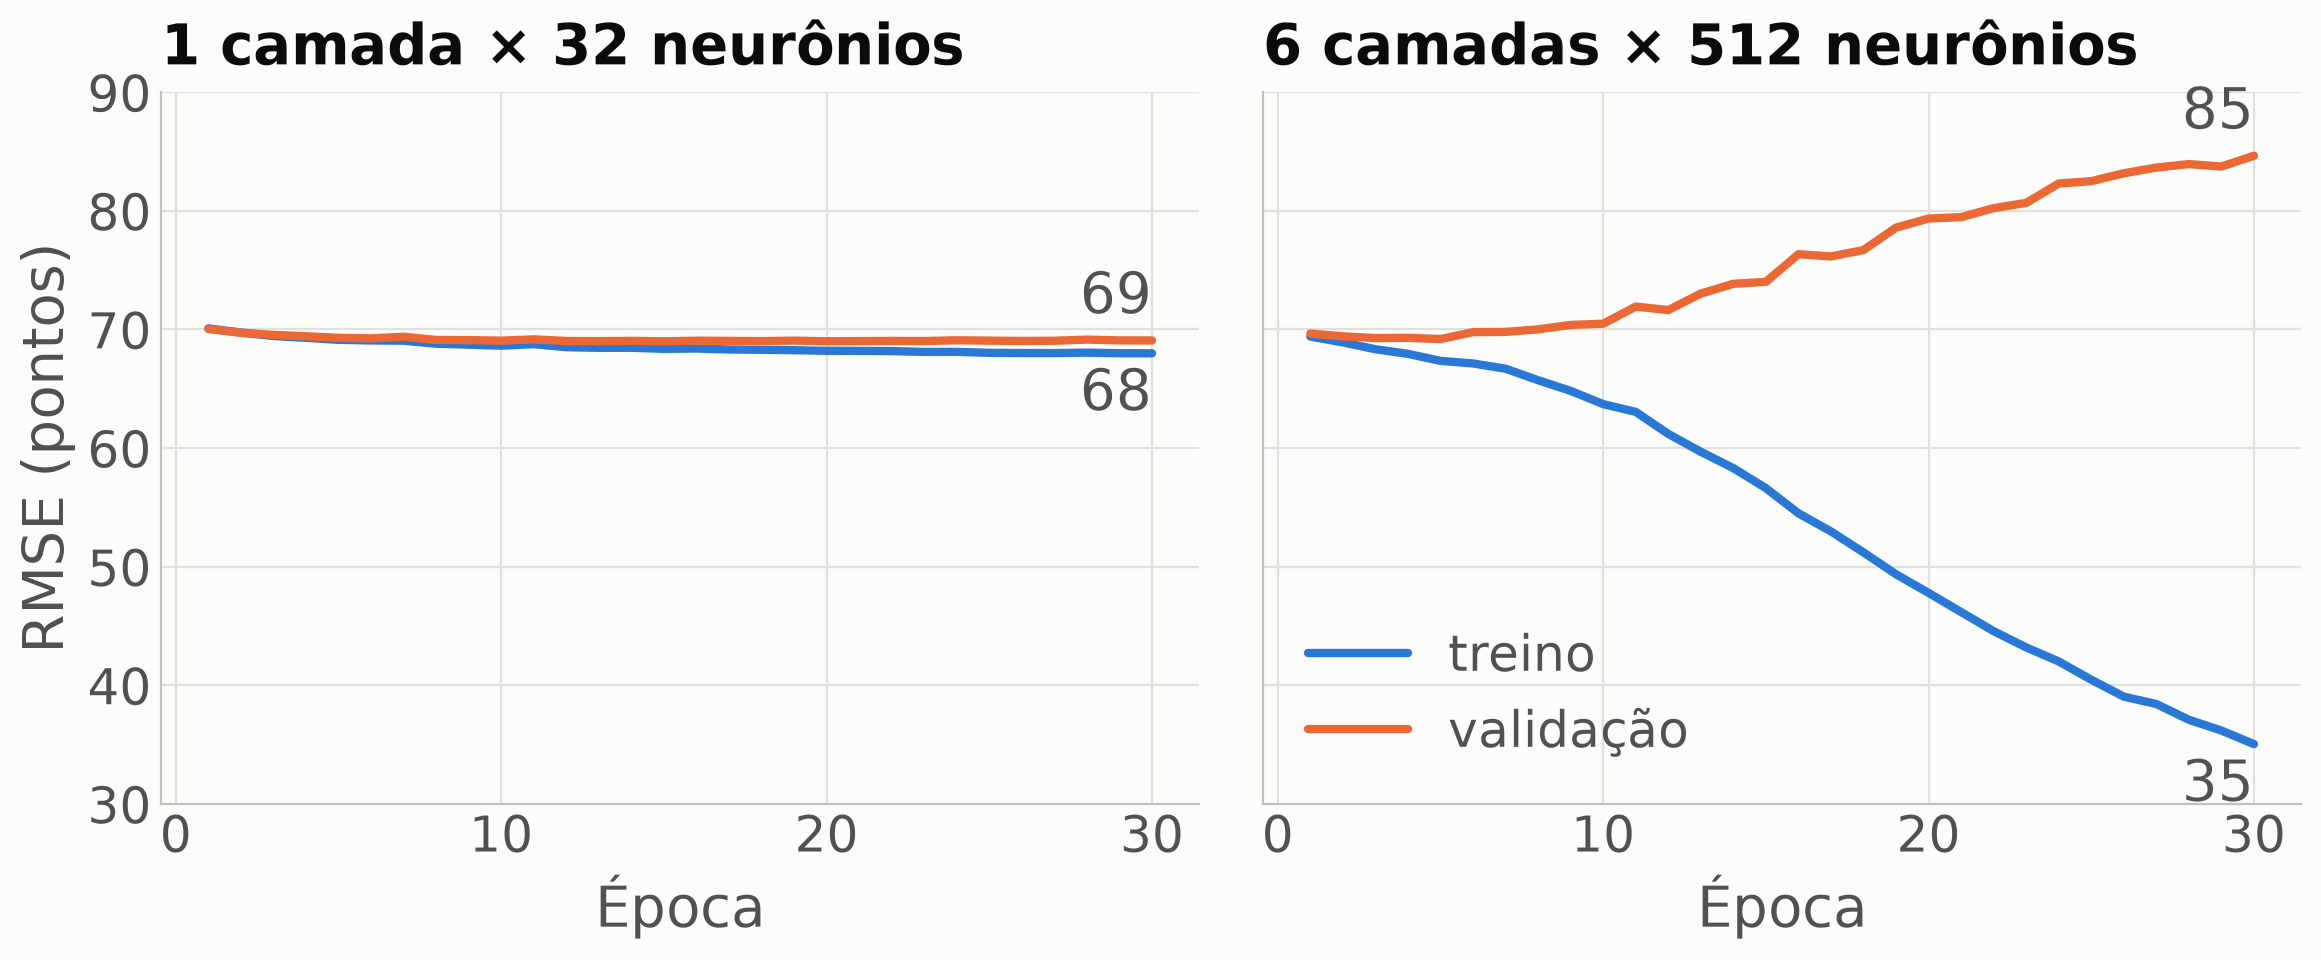
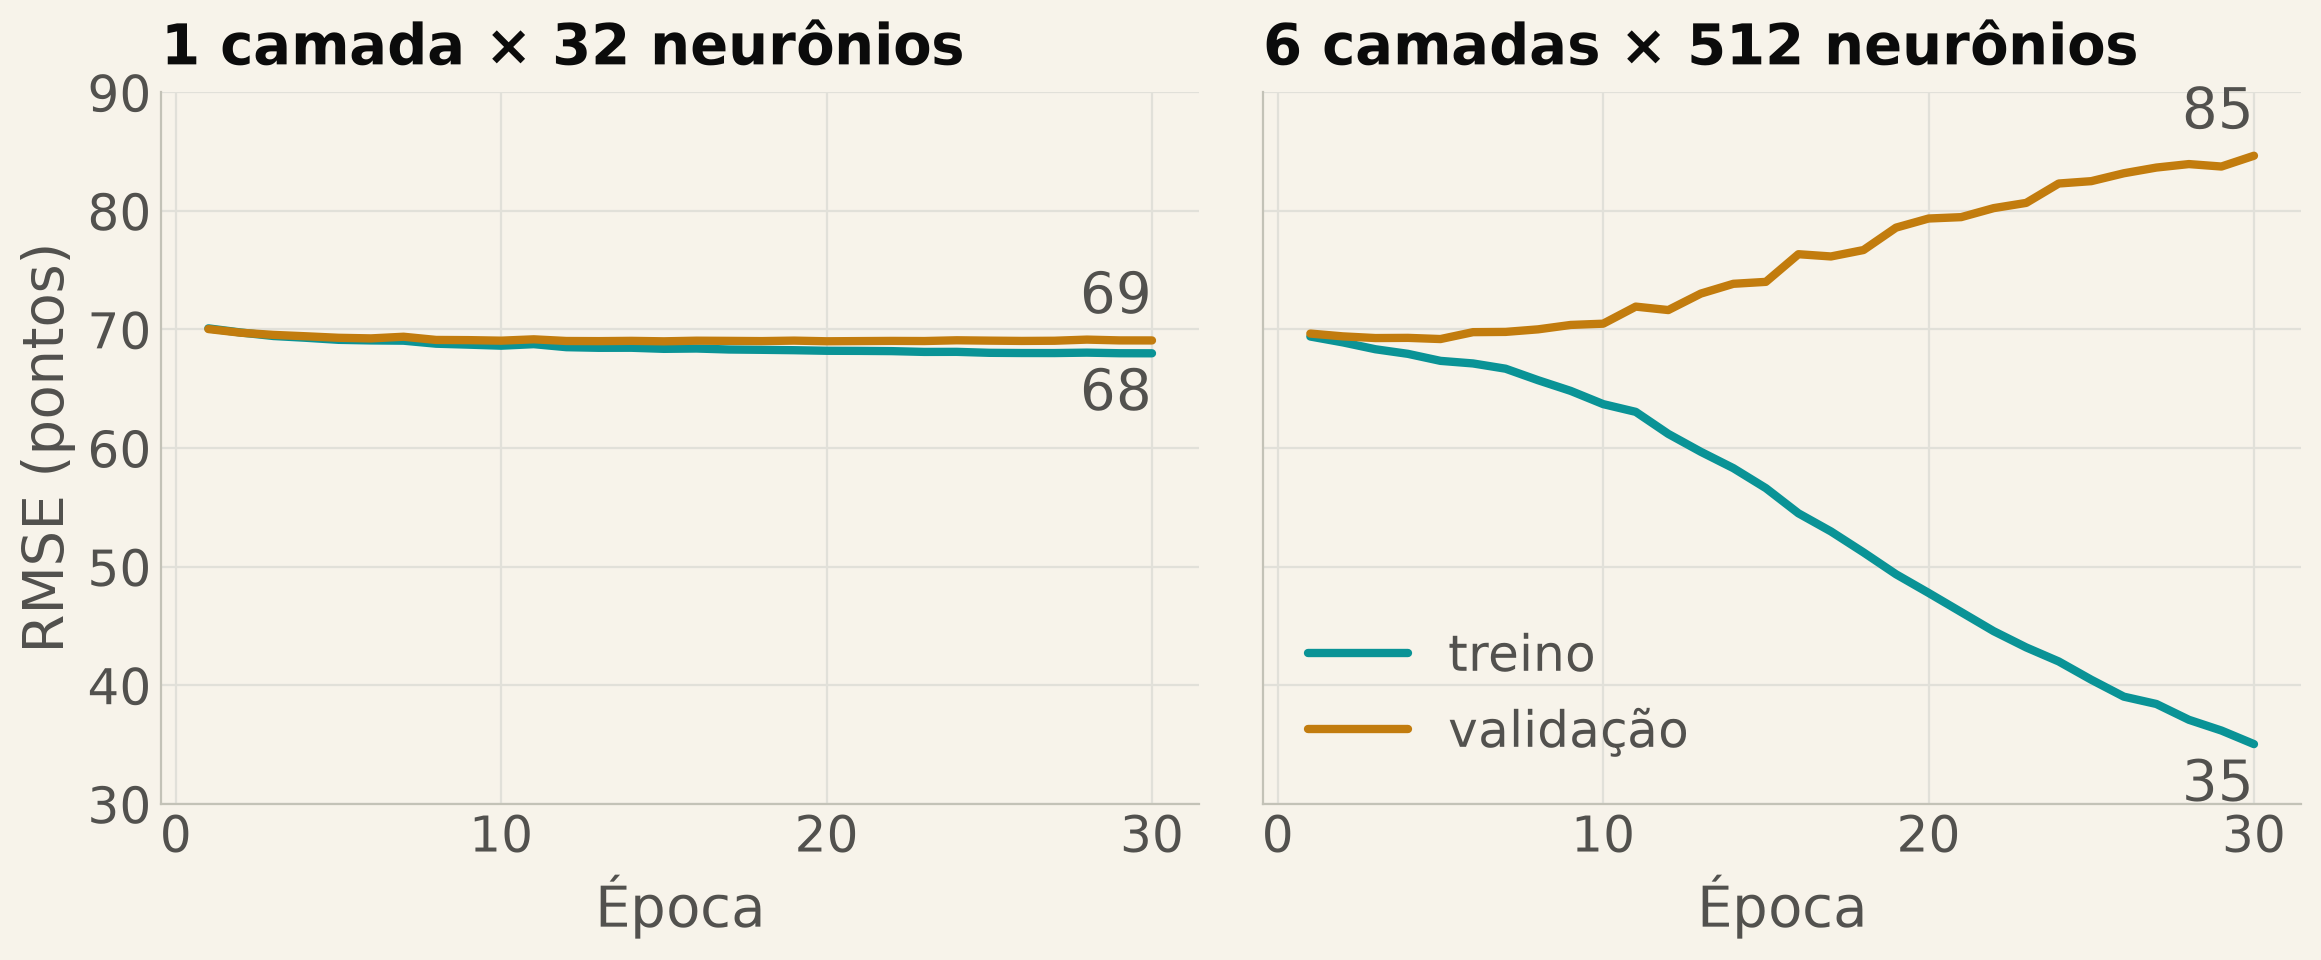
Nova paleta das figuras dos slides (petróleo e ocre)

diff --git a/scripts/figuras_slides.py b/scripts/figuras_slides.py
@@ -16,6 +16,11 @@ from enem.runs import load_results
 plots.setup()
 plt.rcParams.update({"font.size": 20, "axes.titlesize": 22, "axes.labelsize": 20, "xtick.labelsize": 18,
                      "ytick.labelsize": 18, "legend.fontsize": 18, "lines.linewidth": 3, "savefig.dpi": 200})
+# paleta dos slides: petróleo/ocre sobre creme (validada para daltonismo)
+SERIES = ["#0A9396", "#C27C0E"]
+CREME = "#F7F3EA"
+plt.rcParams.update({"axes.prop_cycle": plt.cycler(color=SERIES), "figure.facecolor": CREME,
+                     "axes.facecolor": CREME, "savefig.facecolor": CREME})
 OUT = C.FIG_DIR / "slides"
 OUT.mkdir(parents=True, exist_ok=True)
 
@@ -30,7 +35,7 @@ d = load_year(2022)
 letras = list("ABCDEFGHIJKLMNOPQ")
 g = d.groupby("Q006")[C.TARGET].mean().reindex(letras)
 fig, ax = plt.subplots(figsize=(8, 6.2))
-ax.plot(range(17), g.values, color=SERIES[0], marker="o", markersize=9, markeredgecolor=plots.SURFACE, markeredgewidth=2)
+ax.plot(range(17), g.values, color=SERIES[0], marker="o", markersize=9, markeredgecolor=CREME, markeredgewidth=2)
 ax.axhline(d[C.TARGET].mean(), color=MUTED, linewidth=1.5)
 ax.text(16.3, d[C.TARGET].mean() - 4, "média geral", color=INK_2, fontsize=16, ha="right", va="top")
 ax.text(0, g.iloc[0] - 9, f"{g.iloc[0]:.0f}", ha="center", va="top", fontsize=20, color=INK_2)
@@ -62,7 +67,7 @@ fig, ax = plt.subplots(figsize=(8, 6.2))
 y = np.arange(len(var))
 for i, (esc, rot) in enumerate([("n20k", "20 mil exemplos"), ("n500k", "500 mil exemplos")]):
     vals = [reg[f"{esc}_{v}"]["val"]["rmse"] for v, _ in var]
-    ax.scatter(vals, y + (i - 0.5) * 0.3, s=180, color=SERIES[i], edgecolor=plots.SURFACE, linewidth=2, zorder=3, label=rot)
+    ax.scatter(vals, y + (i - 0.5) * 0.3, s=180, color=SERIES[i], edgecolor=CREME, linewidth=2, zorder=3, label=rot)
 ax.set_yticks(y, [r for _, r in var]); ax.invert_yaxis()
 ax.set_xlabel("RMSE de validação do modelo final (pontos)"); ax.legend(loc="lower left", bbox_to_anchor=(0, 1.0), ncol=2, frameon=False)
 ax.grid(axis="y", visible=False)
